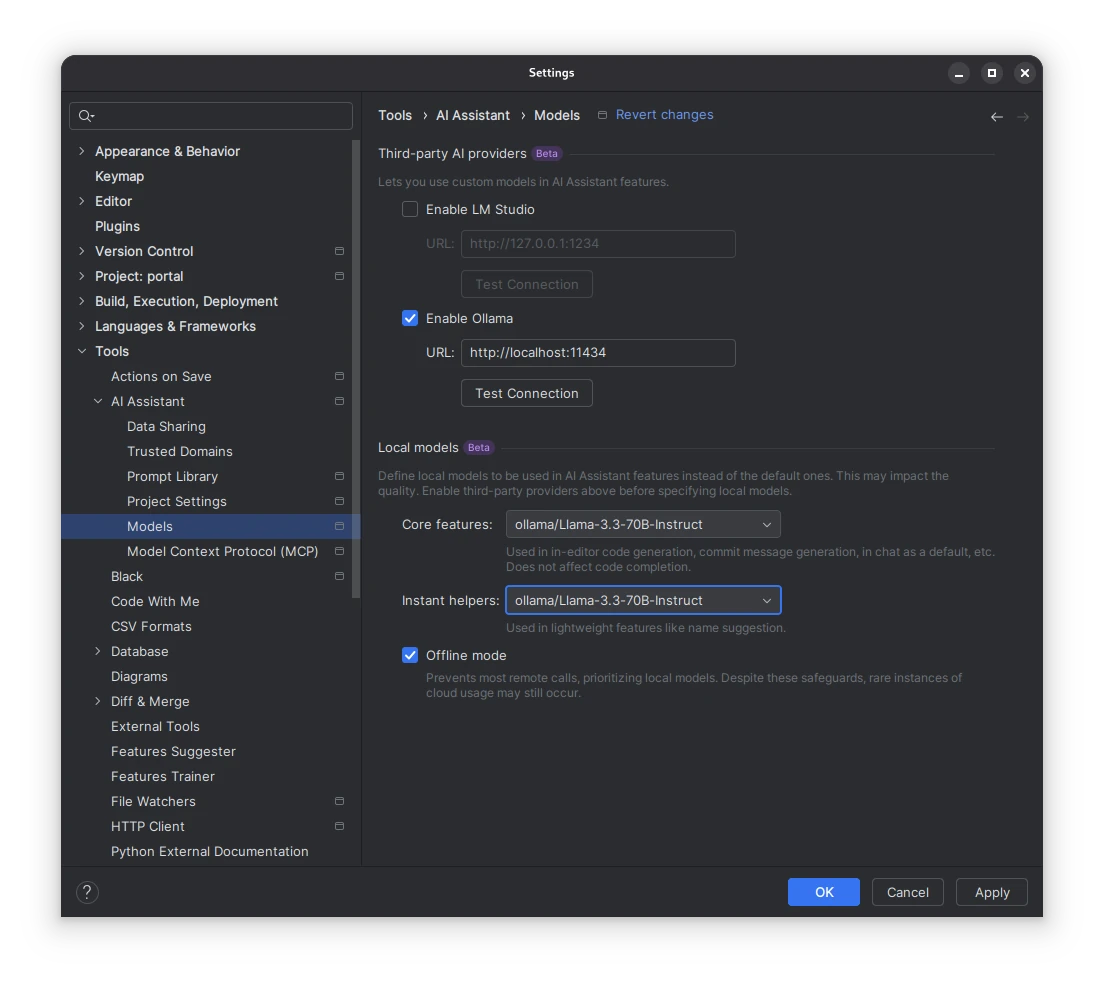
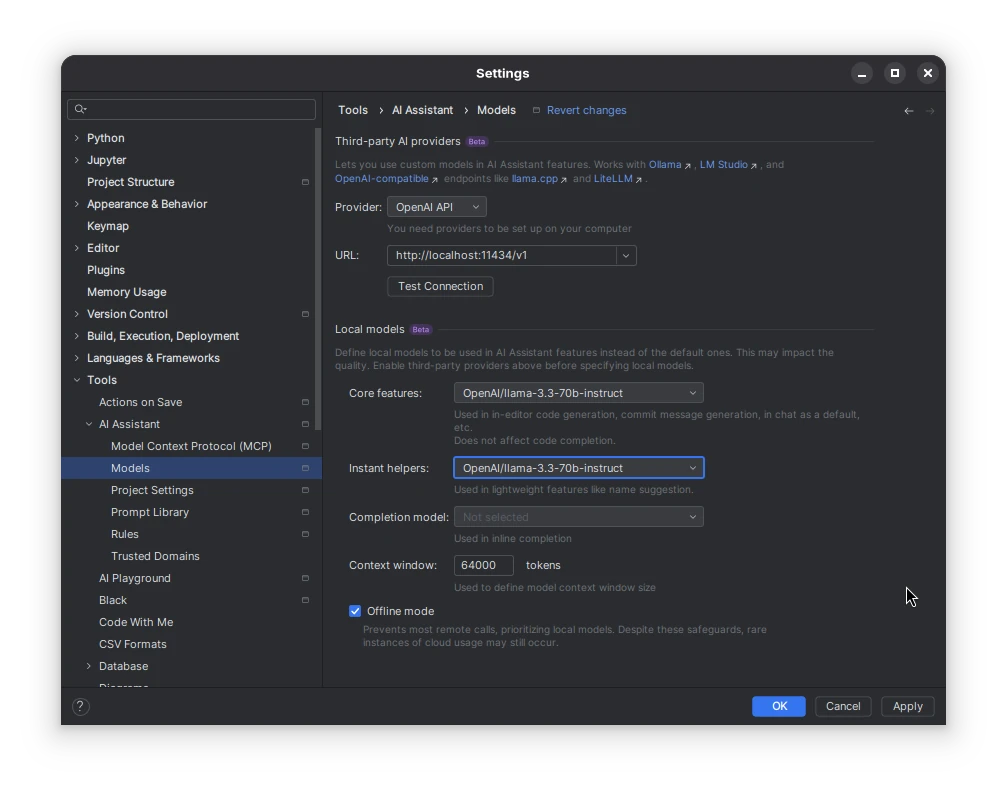
update ionos llm article

diff --git a/source/_posts/eu-hosted-llm-coding-assistant-via-ionos-ai-model-hub-in-vscode-and-jetbrains.md b/source/_posts/eu-hosted-llm-coding-assistant-via-ionos-ai-model-hub-in-vscode-and-jetbrains.md
@@ -4,6 +4,8 @@ date: 2025-07-29 10:48:29
 tags: [sysadmin, ai, machine-learning, selfhosted]
 ---
 
+**Update 2025-10-30:** I updated this article to feature a simpler setup. Instead of proxying the upstream API as local Ollama endpoints, we're using a generic, out-of-the-box local reverse proxy.
+
 # Local LLM Hosting
 LLMs like ChatGPT, Claude, Gemini & Co. are becoming increasingly popular among developers and even though I still prefer [writing code by hand](/statement-about-generative-ai.html), support from an AI model still comes in handy every so often. However, I feel strongly uncomfortable with the idea of sharing my entire code base with US-based providers like OpenAI, whose data protection practices are at least questionable. 
 
@@ -56,19 +58,63 @@ First steps include to create a IONOS Cloud account, sign up for the AI model hu
 ![Access token creation screenshot](images/ionos_ai_hub_token_creation.webp)
 
 ## OpenAI -> Ollama API Proxy
-Most Model-as-a-Service solutions provide an [OpenAI-compatible](https://platform.openai.com/docs/api-reference/introduction) API, so that any tool, that can talk to an OpenAI service can also be pointed to your respective custom endpoint. However, many code editors and IDEs currently only support Ollama- and / or LM Studio APIs for local models. This is why a tiny piece of middleware is required to proxy between the two different formats, that is, expose IONOS' OpenAI API as a local Ollama-style API.
+Most Model-as-a-Service solutions provide an [OpenAI-compatible](https://platform.openai.com/docs/api-reference/introduction) API, so that any tool, that can talk to an OpenAI service can also be pointed to your respective custom endpoint. However, not all code editors and IDEs currently support custom, authenticated OpenAI endpoints. There are several open issues and feature requests for JetBrains ([#11585](https://youtrack.jetbrains.com/issue/LLM-11585/Bring-your-own-LLM-API-key-for-individual-personal-license-of-AI-Pro), [#18360](https://youtrack.jetbrains.com/issue/LLM-18360/Third-party-AI-Provider-API-key-missing), [#47](https://youtrack.jetbrains.com/issue/JUNIE-47/Add-ability-to-use-Junie-locally)) and VSCode ([#7518](https://github.com/microsoft/vscode-copilot-release/issues/7518)), but until they're implemented and upstreamed, we have to settle with a workaround. What we need is a tiny piece of middleware to proxy between the two different formats, that is, expose IONOS' OpenAI API on `localhost`.
 
-I decided to use [openai-ollama-proxy](https://github.com/muety/openai-ollama-proxy) for that purpose. To set it up, simply follow the README instructions, while providing the IONOS endpoint (`https://openai.inference.de-txl.ionos.com/v1`) and your secret access token via command-line arguments. Run the service to expose a local [Ollama API](https://www.postman.com/postman-student-programs/ollama-api/documentation/suc47x8/ollama-rest-api) at port 11434. Verify it by browsing to http://localhost:11434/api/tags (list available models endpoint).
+We're using [Caddy](https://caddyserver.com/) as a reverse proxy, which you can just install via your package manager. The config (provided as a `Caddyfile`) for proxying is this:
+
+```
+:11434 {
+	reverse_proxy https://openai.inference.de-txl.ionos.com/v1 {
+		header_up "openai.inference.de-txl.ionos.com"
+		header_up Authorization "Bearer <YOUR IONOS API TOKEN HERE>"
+	}
+}
+```
+
+You can then start the proxy by running:
+
+```bash
+caddy run --config Caddyfile
+```
+
+On Linux, you might also want to create a SystemD unit to automatically run Caddy in the background. On Windows you can achieve the same by setting up a Windows service.
+
+**Note:** A previous version of this article presented a different approach where the IONOS OpenAI API was exposed as a local [Ollama API](https://www.postman.com/postman-student-programs/ollama-api/documentation/suc47x8/ollama-rest-api) using [openai-ollama-proxy](https://github.com/muety/openai-ollama-proxy), but this comes with several downsides.
 
 ## JetBrains Integration (PyCharm, IntelliJ, ...)
-Last step is to hook up the (proxied) model with your IDE, e.g. PyCharm. To do so, enable the [AI Asisstant](https://plugins.jetbrains.com/plugin/22282-jetbrains-ai-assistant) plugin, enable Ollama integration in its settings, choose your preferred model and turn on _Offline mode_. When done, you're good to go to start chatting with Llama (or whatever model you picked) and have it help you code!
+Last step is to hook up the (proxied) model with your IDE, e.g. PyCharm. To do so, enable the [AI Asisstant](https://plugins.jetbrains.com/plugin/22282-jetbrains-ai-assistant) plugin, enable OpenAI integration in its settings, choose your preferred model and turn on _Offline mode_. When done, you're good to go to start chatting with Llama (or whatever model you picked) and have it help you code!
 
 ![Jetbrains AI asistant setup settings](images/jetbrains_ai_settings.webp)
 
 ## Visual Studio Code Integration
-The setup in VSCode is similarly easy. First, you'll need the [GitHub Copilot Chat](https://marketplace.visualstudio.com/items?itemName=GitHub.copilot-chat) plugin. Bring up the chat, go to _"Manage Models"_, choose "Ollama" as a provider (Openrouter would work as well) and, if you did everything right, it will already pick up your local endpoint and list the available models. 
+For VSCode, we're using the [GitHub Copilot Chat](https://marketplace.visualstudio.com/items?itemName=GitHub.copilot-chat) extension. Unfortunately, custom OpenAI endpoints are only available in the [Visual Studio Code Insiders](https://code.visualstudio.com/insiders/) variant for now (but will hopefully make it to the "standard" edition as well). 
 
-![VSCode Copilot setup settings](images/vscode_ai_settings.webp)
+First step is to edit the settings, which you'll find under _File_ -> _Preferences_ -> _Settings_. Add the following snippet to hook up VScode with your reverse-proxied OpenAI API:
+
+```json
+{
+    "github.copilot.chat.customOAIModels": {
+        "llama/llama-3.3-70b-instruct": {
+            "name": "Llama 3.3 70B Instruct",
+            "url": "http://localhost:11434/v1",
+            "toolCalling": true,
+            "vision": false,
+            "thinking": true,
+            "maxInputTokens": 128000,
+            "maxOutputTokens": 4096,
+            "requiresAPIKey": false
+        }
+    }
+}
+```
+
+You may choose any model available at http://localhost:11434/v1/models.
+
+Next, bring up the Copilot chat, go to _"Manage Models"_, choose "OpenAI Compatible" as a provider and, if you did everything right, it will already pick up your local endpoint and list the available models. 
+
+![VSCode Copilot setup settings step 1](images/vscode_ai_settings_1.webp)
+
+![VSCode Copilot setup settings step 2](images/vscode_ai_settings_2.webp)
 
 # Conclusion
 If you value [digital sovereignity](https://www.netcup.com/de/blog/digital-sovereignty/digitale-souveraenitaet), don't want to purchase an expensive graphics card that would still end up idling most of the time, but nevertheless want to leverage LLM assistants for repetitive coding task, opting for EU-based model-as-a-service offering is probably a sound option for you. My above instructions may guide you on your way to a "semi-local" AI coding setup. 
